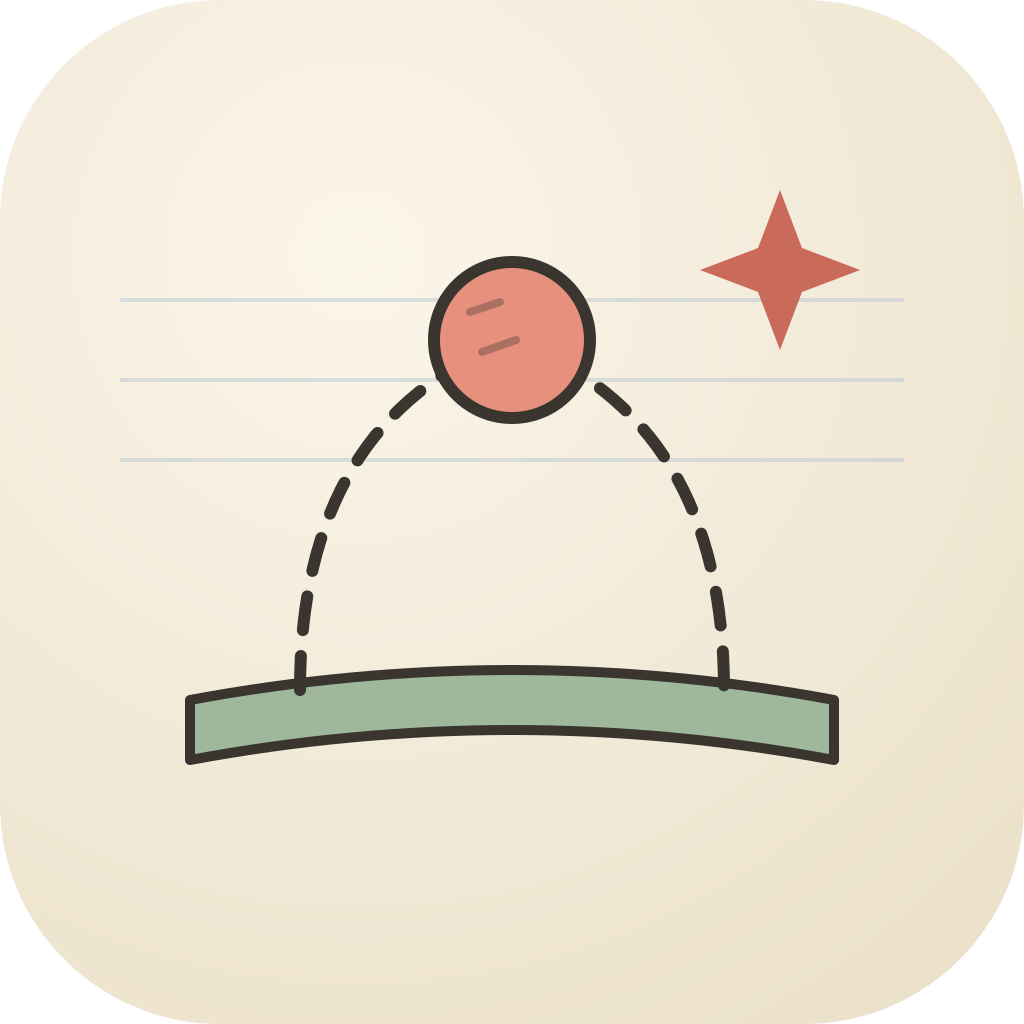
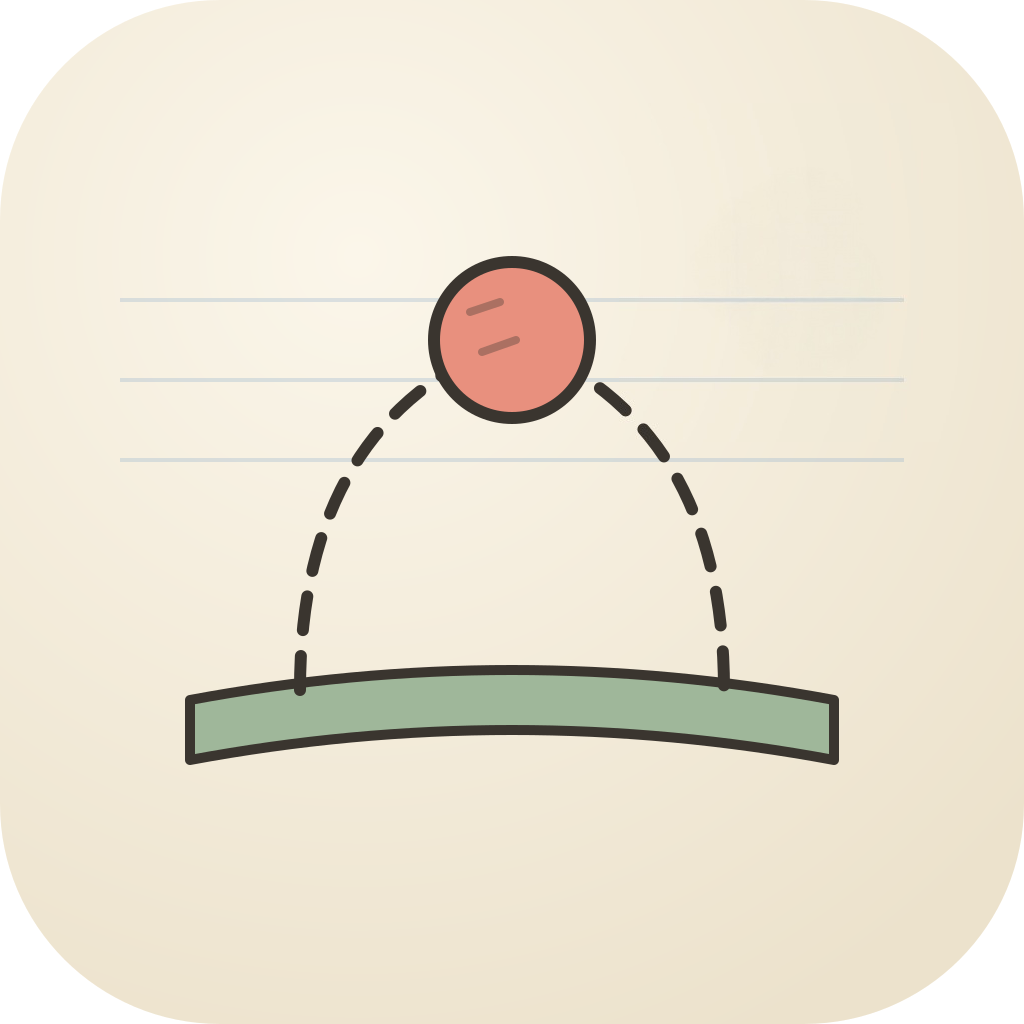
click photo

Changed region(s): [[0.6875, 0.1875, 0.8438, 0.3438]]

diff --git a/miniapp/src/background/core.ts b/miniapp/src/background/core.ts
@@ -14,7 +14,11 @@ export interface LpSession {
   camera: {
     takePhoto(o: { size?: 'low' | 'medium' | 'high' | 'max'; compress?: 'none' | 'low' | 'medium' | 'high'; sound?: boolean; timeoutMs?: number; mode?: 'photo' | 'text'; transferMethod?: 'auto' | 'direct' | 'ble' }): Promise<{ photoUrl: string; mimeType: string; size: number; requestId: string }>;
   };
-  input: { onButtonPress(h: (d: { buttonId: string; pressType: 'short' | 'long' }) => void): () => void };
+  input: {
+    onButtonPress(h: (d: { buttonId: string; pressType: 'short' | 'long' }) => void): () => void;
+    /** temple touch gestures (single_tap, double_tap, long_press, swipe_up/down…) */
+    onTouch?(h: (d: { kind: string }) => void): () => void;
+  };
   speaker: { play(o: { audioUrl: string; volume?: number; stopOtherAudio?: boolean }): Promise<void>; speak(text: string, o?: { stopOtherAudio?: boolean }): Promise<unknown> };
   storage: { get(k: string): Promise<string | null>; set(k: string, v: string): Promise<void> };
   ui: {
@@ -111,9 +115,31 @@ export async function livingPagesBackground(session: LpSession, cfg: BackgroundC
   }
 
   // ---- input from the glasses -----------------------------------------------------
-  session.input.onButtonPress(({ pressType }) => {
-    if (pressType === 'short') void capture('button');
-    else setScanning(!status.scanning, true);
+  // Short press / single tap = look now (works while paused: "manual mode").
+  // Long press = pause or resume scanning. Every input is logged to the server
+  // so it's easy to see what the glasses actually send.
+  const lookNow = (via: string) => {
+    logCapture('input', 0, `${via} → look now${status.scanning ? '' : ' (paused: manual look)'}${busy ? ' (queued: a photo is still arriving)' : ''}`);
+    if (!status.scanning || busy) {
+      status.lastResult = busy ? 'will look as soon as the current photo arrives' : 'looking now…';
+      pushStatus();
+    }
+    // audible confirmation for manual looks, so the wearer knows the press registered
+    if (!status.scanning && settings.sounds === 'voice') void session.speaker.speak('Looking.').catch(() => {});
+    void capture('button');
+  };
+  const toggleScan = (via: string) => {
+    logCapture('input', 0, `${via} → ${status.scanning ? 'pause' : 'resume'} scanning`);
+    setScanning(!status.scanning, true);
+  };
+  session.input.onButtonPress(({ buttonId, pressType }) => {
+    if (pressType === 'long') toggleScan(`button ${buttonId} long`);
+    else lookNow(`button ${buttonId} ${pressType}`);
+  });
+  session.input.onTouch?.(({ kind }) => {
+    if (kind === 'single_tap') lookNow(`touch ${kind}`);
+    else if (kind === 'long_press') toggleScan(`touch ${kind}`);
+    else logCapture('input', 0, `touch ${kind} (unused)`);
   });
 
   function setScanning(on: boolean, fromGlasses: boolean) {

diff --git a/server/scripts/drive-button.ts b/server/scripts/drive-button.ts
@@ -1,0 +1,24 @@
+import { chromium } from 'playwright';
+const OUT = process.env.OUT!;
+const b = await chromium.launch({ args: ['--use-angle=swiftshader', '--enable-unsafe-swiftshader', '--ignore-gpu-blocklist'] });
+const p = await b.newPage({ viewport: { width: 1500, height: 960 } });
+await p.goto('http://localhost:5173/');
+await p.waitForTimeout(3000);
+const phone = () => p.frames().find((fr) => fr.url().endsWith('/phone'))!;
+const btn = p.locator('.gbtn');
+// hold = pause
+await btn.dispatchEvent('pointerdown'); await p.waitForTimeout(900); await btn.dispatchEvent('pointerup');
+await p.waitForTimeout(1500);
+console.log('after hold:', (await phone().locator('.scan-text b').innerText()));
+await p.selectOption('.sources select', { label: 'Screenshot-2026-11-14_17:12:12.png' });
+await p.waitForTimeout(500);
+// tap = look now, while paused
+await btn.dispatchEvent('pointerdown'); await p.waitForTimeout(80); await btn.dispatchEvent('pointerup');
+await p.waitForTimeout(800);
+console.log('right after tap:', await p.locator('.speaker').innerText().catch(() => '(no speaker caption)'));
+await p.waitForTimeout(8000);
+const rows = await p.locator('.trace').allInnerTexts();
+console.log('frames while paused:', rows.length, rows.slice(0, 2).map((r) => r.replace(/\s+/g, ' ')).join(' || '));
+await phone().locator('.app-head, .miniapp-header, header').first().screenshot({ path: `${OUT}/header.png` }).catch(async () => p.screenshot({ path: `${OUT}/header.png`, clip: { x: 520, y: 100, width: 400, height: 160 } }));
+await p.screenshot({ path: `${OUT}/header.png`, clip: { x: 520, y: 95, width: 400, height: 170 } });
+await b.close();

diff --git a/miniapp/src/ui/App.tsx b/miniapp/src/ui/App.tsx
@@ -8,6 +8,7 @@ import type { Discovery, FrameTrace, GlassesStatus, Settings, SoundMode } from '
 import { Explore, type ExploreView } from './explore';
 import { fetchPrompt, type VizRecord } from './api';
 import { deviceCheck, type DeviceReport } from './devicecheck';
+import logoUrl from '../../icon.png';
 
 const ago = (t: number) => {
   const s = Math.round((Date.now() - t) / 1000);
@@ -163,7 +164,7 @@ export function App() {
       <div className={`lp-app ${openId ? 'exploring' : 'home'}`}>
         {/* home ------------------------------------------------------------------ */}
         <section className="home-screen">
-          <MiniappHeader title={<span className="app-title">PictureThis</span>} />
+          <MiniappHeader title={<span className="app-title"><img className="app-logo" src={logoUrl} alt="" />PictureThis</span>} />
           <div className="app-sub">
             {status ? (
               status.error ? <span className="err">{status.error}</span> : !status.connected ? 'waiting for your Mentra Live…' : !status.hasCamera ? 'these glasses have no camera' : <>Mentra Live{scanning ? <span className="rec"> · camera on</span> : ' · paused'}</>

diff --git a/miniapp/src/ui/styles.css b/miniapp/src/ui/styles.css
@@ -34,7 +34,8 @@ button { font-family: inherit; color: inherit; cursor: pointer; }
   radial-gradient(ellipse at 20% 0%, #fbf6ea, var(--paper) 60%); }
 .app-head { padding-right: 110px; margin: 2px 0 14px; }
 .app-title { font-size: 28px; font-weight: 500; line-height: 1.1; }
-.app-title::before { content: '✦ '; color: var(--coral-deep); font-size: 22px; }
+.app-title { display: inline-flex; align-items: center; gap: 9px; }
+.app-logo { width: 30px; height: 30px; border-radius: 8px; flex: none; box-shadow: 0 1px 3px rgba(80, 55, 25, 0.25); }
 .app-sub { font-size: 13px; color: var(--graphite); font-style: italic; margin-top: 3px; }
 .app-sub .rec { color: var(--coral-deep); }
 

diff --git a/miniapp/src/ui/assets.d.ts b/miniapp/src/ui/assets.d.ts
@@ -1,0 +1,5 @@
+// image imports resolve to a URL (Bun's bundler copies the file into the build)
+declare module '*.png' {
+  const src: string;
+  export default src;
+}
